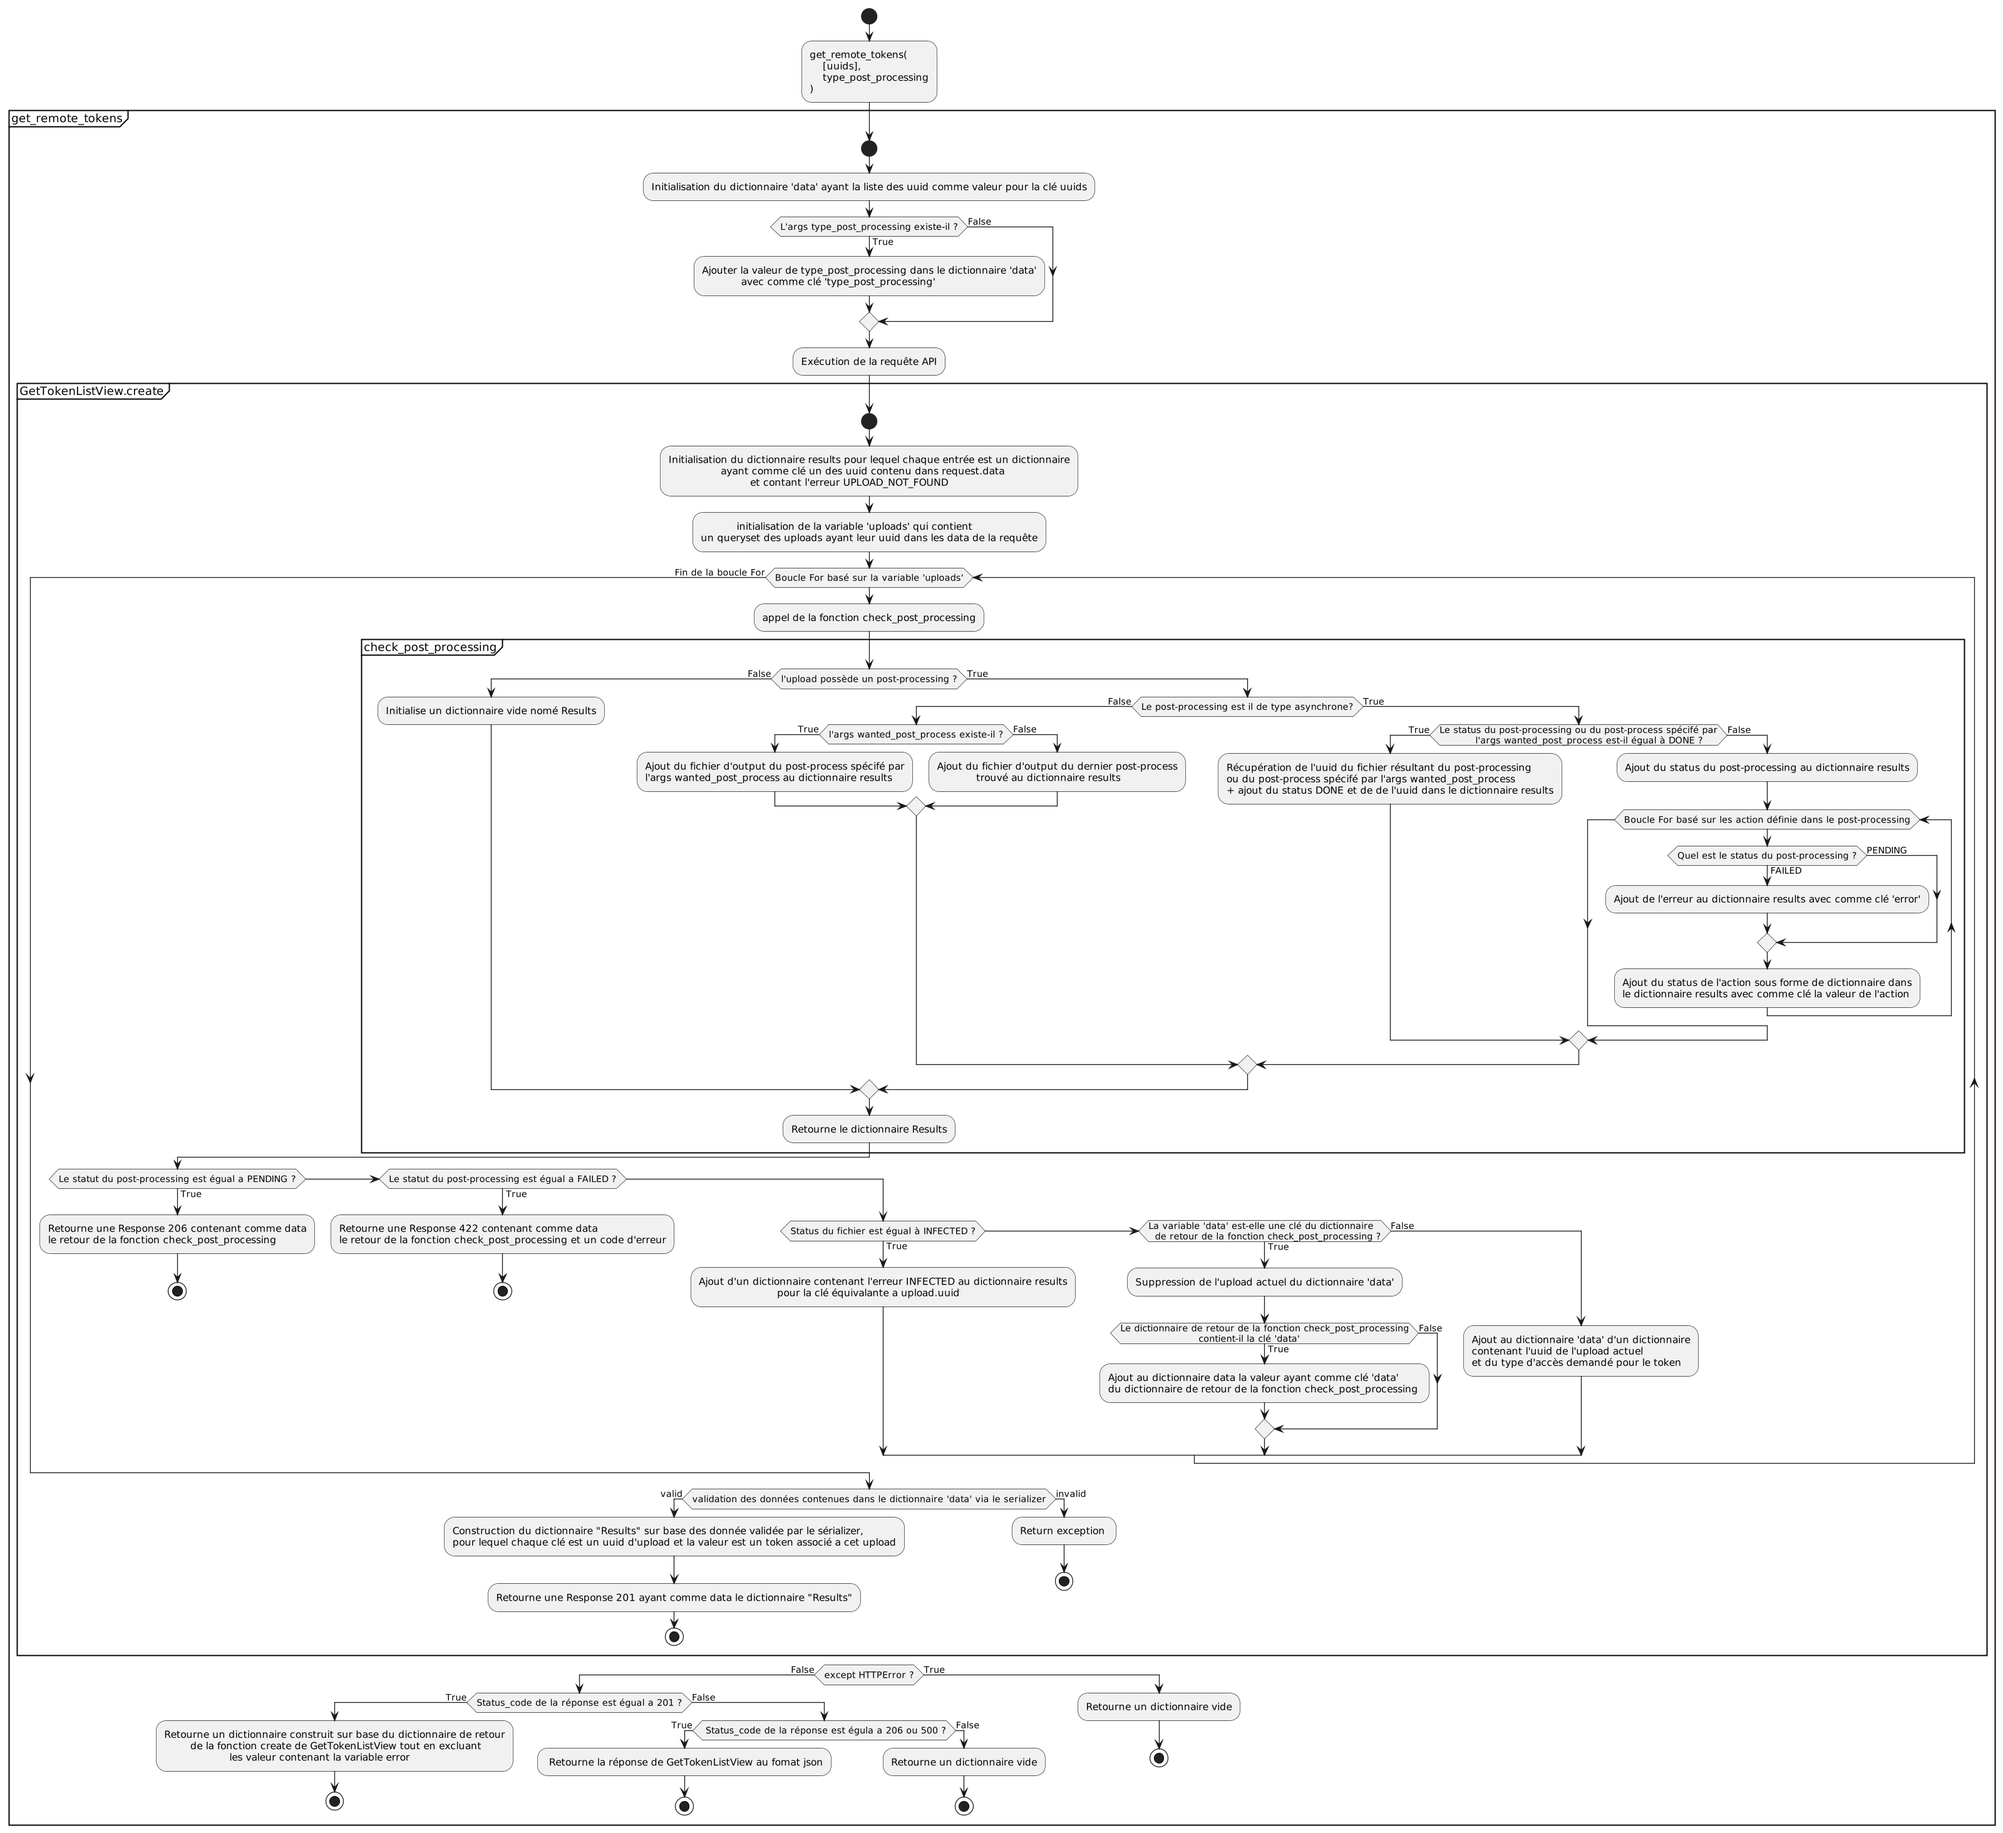
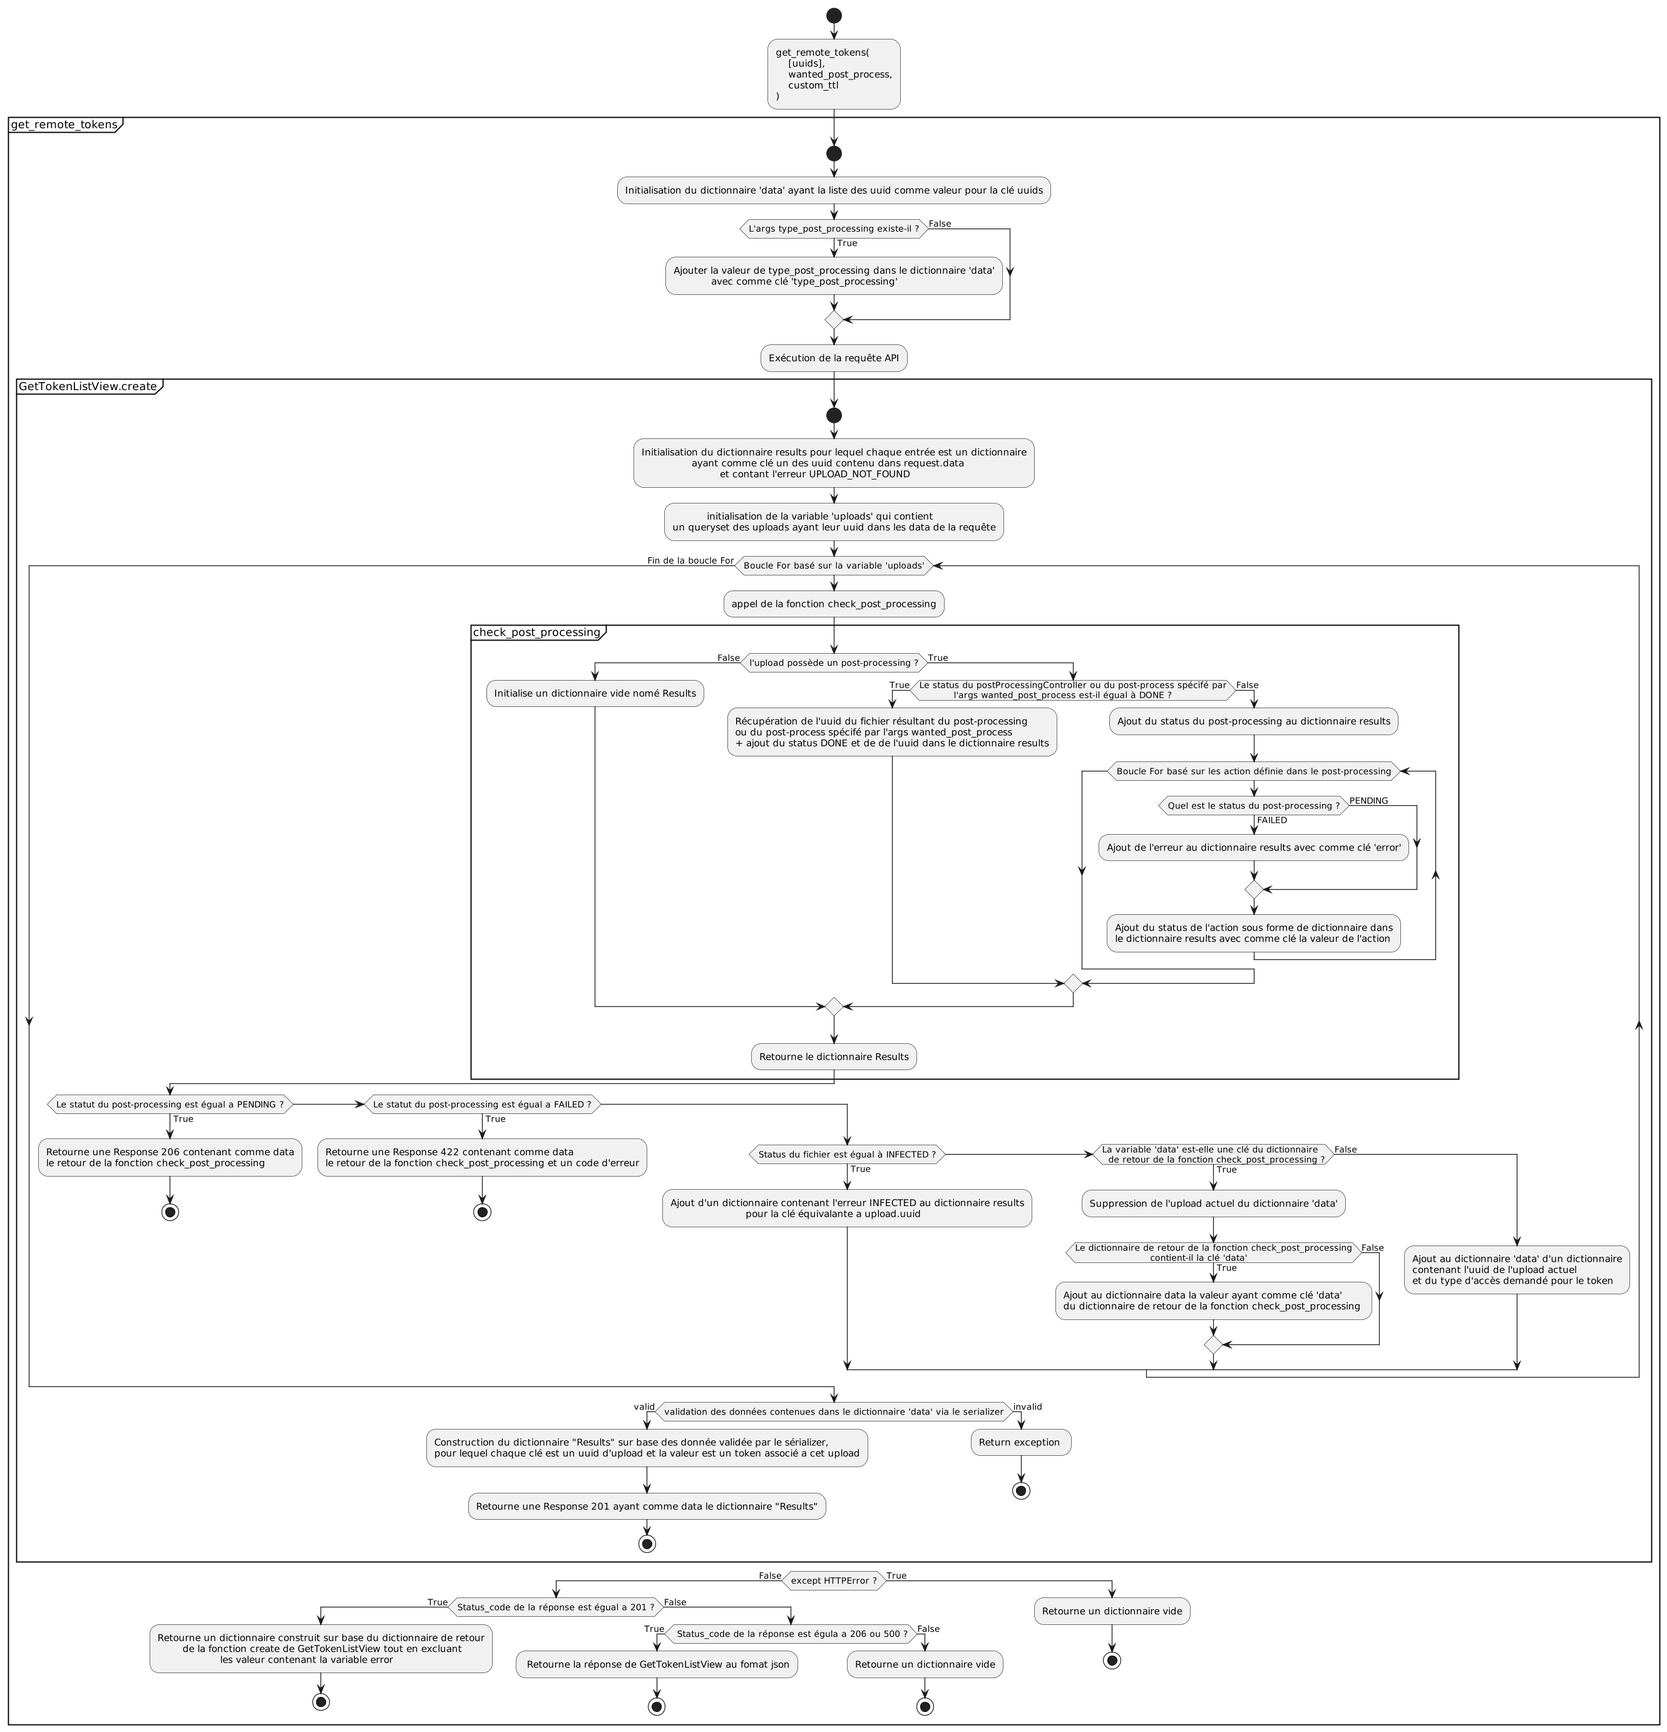
Update Docs et refactor Token.check_post_processing

diff --git a/osis_document/api/views/token.py b/osis_document/api/views/token.py
@@ -114,13 +114,45 @@ class GetTokenView(CorsAllowOriginMixin, generics.CreateAPIView):
             post_processing_controller_qs = PostProcessingController.objects.filter(
                 data__base_input__contains=request.data.get('uuid') or request.data.get('uuids')
             )
-
             if post_processing_controller_qs.exists():
-                results = self.check_post_processing_async(
-                    post_processing_controller_qs=post_processing_controller_qs,
-                    upload=upload,
-                    wanted_post_process=wanted_post_process
+                results = {}
+                post_processing_controller_object = post_processing_controller_qs.get()
+                last_post_process = post_processing_controller_object.data['post_process_actions'][-1]
+                post_process_results = post_processing_controller_object.results[
+                    wanted_post_process or last_post_process]
+
+                some_post_process_done = post_processing_controller_object.status == PostProcessingStatus.DONE.name or (
+                        wanted_post_process and post_process_results['status'] == PostProcessingStatus.DONE.name
                 )
+                if some_post_process_done:
+                    wanted_upload_id = self.get_output_upload_uuid_from_post_processing_controller_result
+                    if wanted_upload_id:
+                        results = {
+                            'data': {
+                                'upload_id': wanted_upload_id(
+                                    upload=upload,
+                                    async_result=post_process_results
+                                ),
+                                'access': self.token_access},
+                            'status': PostProcessingStatus.DONE.name
+                        }
+
+                elif post_processing_controller_object.status in [
+                    PostProcessingStatus.PENDING.name,
+                    PostProcessingStatus.FAILED.name
+                ]:
+                    results["status"] = post_processing_controller_object.status
+                    results["links"] = reverse(
+                        'osis_document:get-progress-post-processing',
+                        kwargs={'pk': post_processing_controller_object.uuid}
+                    )
+                    for action in post_processing_controller_object.data['post_process_actions']:
+                        if post_processing_controller_object.status == PostProcessingStatus.FAILED.name and "errors" in \
+                                post_processing_controller_object.results[action]:
+                            results['errors'] = post_processing_controller_object.results[action]["errors"]
+                        results[action] = {
+                            'status': post_processing_controller_object.results[action]['status']
+                        }
         return results
 
     def check_post_processing_async(
@@ -131,45 +163,7 @@ class GetTokenView(CorsAllowOriginMixin, generics.CreateAPIView):
     ) -> Optional[Dict[str, Union[str, Dict[str, str]]]]:
         """Given an Upload object and a type of post-processing and a QuerySet of PostProcessingController,
         returns a dictionary whose content depends on its state."""
-        results = {}
-        post_processing_controller_object = post_processing_controller_qs.get()
-        last_post_process = post_processing_controller_object.data['post_process_actions'][-1]
-        post_process_results = post_processing_controller_object.results[
-            wanted_post_process or last_post_process]
 
-        some_post_process_done = post_processing_controller_object.status == PostProcessingStatus.DONE.name or (
-                wanted_post_process and post_process_results['status'] == PostProcessingStatus.DONE.name
-        )
-        if some_post_process_done:
-            wanted_upload_id = self.get_output_upload_uuid_from_post_processing_controller_result
-            if wanted_upload_id:
-                results = {
-                    'data': {
-                        'upload_id': wanted_upload_id(
-                            upload=upload,
-                            async_result=post_process_results
-                        ),
-                        'access': self.token_access},
-                    'status': PostProcessingStatus.DONE.name
-                }
-
-        elif post_processing_controller_object.status in [
-            PostProcessingStatus.PENDING.name,
-            PostProcessingStatus.FAILED.name
-        ]:
-            results["status"] = post_processing_controller_object.status
-            results["links"] = reverse(
-                'osis_document:get-progress-post-processing',
-                kwargs={'pk': post_processing_controller_object.uuid}
-            )
-            for action in post_processing_controller_object.data['post_process_actions']:
-                if post_processing_controller_object.status == PostProcessingStatus.FAILED.name and "errors" in \
-                        post_processing_controller_object.results[action]:
-                    results['errors'] = post_processing_controller_object.results[action]["errors"]
-                results[action] = {
-                    'status': post_processing_controller_object.results[action]['status']
-                }
-        return results
 
     @staticmethod
     def get_output_upload_uuid_from_post_processing_controller_result(
